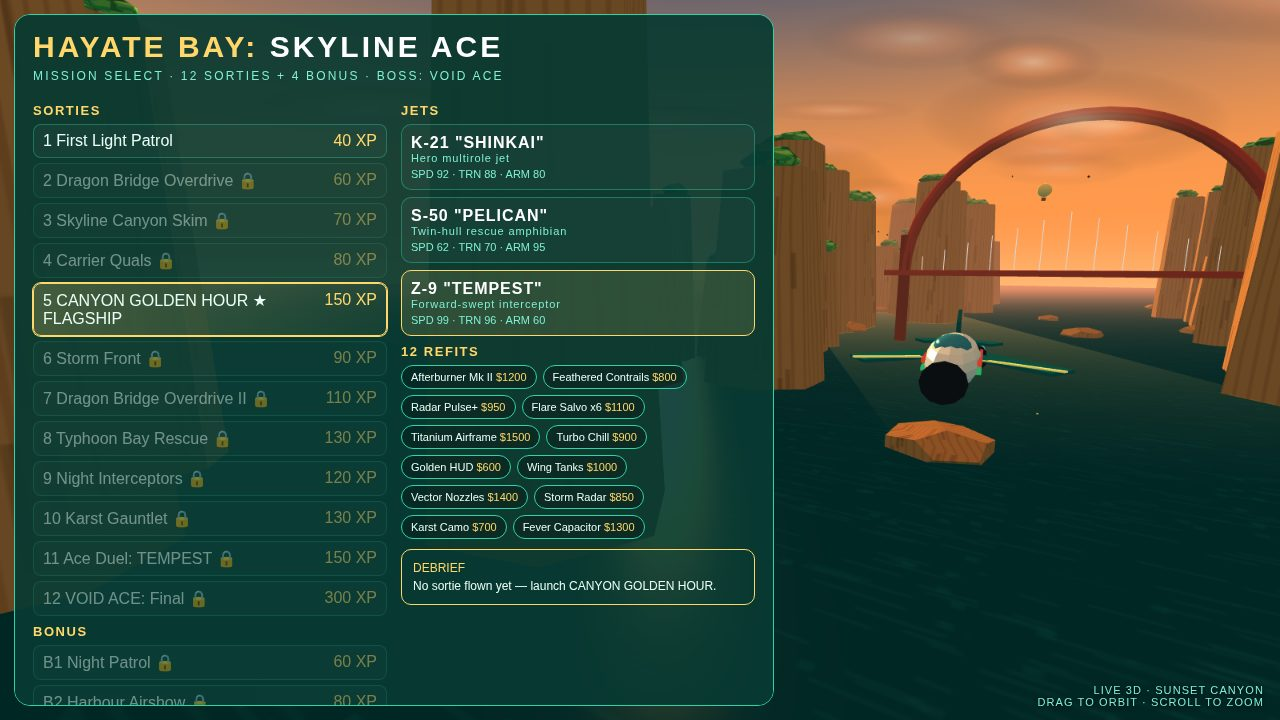
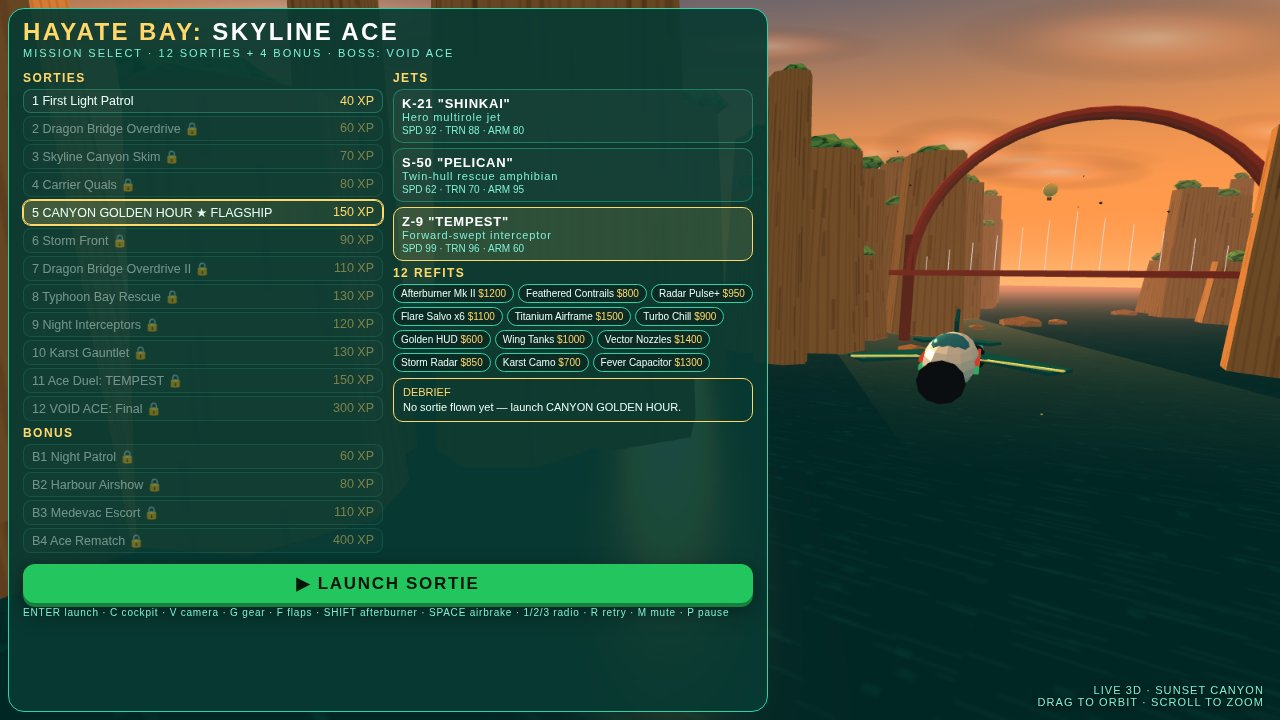
Fix menu overflow at 720p and carrier framing in cockpit shot
- Compact menu panel (tighter rows/pills/fonts): all 12 sorties,
  Bonus B1-B4, 12 refits, debrief and LAUNCH button now visible
  at 1280x720 (panel bottom 712px, LAUNCH bottom 603px)
- Carrier shot staging: start the ?shot=carrier approach from the
  clear centre corridor (100, 50, 880), yaw -0.6, so the deck and
  meatball are ahead in frame instead of a karst pillar; retaken
  screenshots 1-menu.jpg and 4-carrier.jpg (real renders, 1280x720)
- 2-play.jpg and 3-storm.jpg untouched

diff --git a/game/index.html b/game/index.html
@@ -21,29 +21,29 @@ button{font-family:inherit;cursor:pointer}
 #error{position:fixed;inset:auto 0 0 0;z-index:70;display:none;background:#7f1d1d;color:#fff;padding:10px 14px;font-size:13px}
 /* ---------- MENU ---------- */
 #menu{position:fixed;inset:0;z-index:20;display:flex;pointer-events:none}
-#menuPanel{pointer-events:auto;width:min(760px,94vw);max-height:100vh;overflow-y:auto;margin:14px;background:var(--teal2);border:1px solid var(--line);border-radius:16px;padding:16px 18px}
-#menuPanel h1{font-size:30px;color:var(--gold);letter-spacing:.1em;line-height:1.05}
+#menuPanel{pointer-events:auto;width:min(760px,94vw);max-height:calc(100vh - 16px);overflow-y:auto;margin:8px;background:var(--teal2);border:1px solid var(--line);border-radius:16px;padding:10px 14px}
+#menuPanel h1{font-size:24px;color:var(--gold);letter-spacing:.1em;line-height:1.05}
 #menuPanel h1 span{color:#fff}
-#menuSub{color:var(--mint);font-size:12px;letter-spacing:.18em;margin:6px 0 12px}
-.cols{display:flex;gap:14px;flex-wrap:wrap}
+#menuSub{color:var(--mint);font-size:11px;letter-spacing:.18em;margin:3px 0 7px}
+.cols{display:flex;gap:10px;flex-wrap:wrap}
 .col{flex:1;min-width:210px}
-.col h2{font-size:13px;color:var(--gold);margin:8px 0 6px}
-.row{display:flex;justify-content:space-between;gap:8px;padding:7px 9px;border:1px solid rgba(45,212,168,.35);border-radius:8px;margin-bottom:5px;cursor:pointer;background:rgba(255,255,255,.03)}
+.col h2{font-size:12px;color:var(--gold);margin:5px 0 4px}
+.row{display:flex;justify-content:space-between;gap:8px;padding:4px 8px;font-size:12.5px;border:1px solid rgba(45,212,168,.35);border-radius:8px;margin-bottom:3px;cursor:pointer;background:rgba(255,255,255,.03)}
 .row:hover{border-color:var(--gold)}
 .row.sel{border-color:var(--gold);background:rgba(255,215,106,.14);box-shadow:0 0 0 1px var(--gold)}
 .row.locked{opacity:.45;cursor:not-allowed}
 .row .xp{color:var(--gold);white-space:nowrap}
 .row.flag{border-color:var(--gold);background:linear-gradient(90deg,rgba(255,215,106,.22),rgba(255,215,106,.05))}
-.jetcard{border:1px solid rgba(45,212,168,.4);border-radius:10px;padding:9px;margin-bottom:7px;cursor:pointer;background:rgba(255,255,255,.03)}
+.jetcard{border:1px solid rgba(45,212,168,.4);border-radius:10px;padding:6px 8px;margin-bottom:5px;cursor:pointer;background:rgba(255,255,255,.03);font-size:13px}
 .jetcard.sel{border-color:var(--gold);background:rgba(255,215,106,.13)}
 .jetcard b{color:#fff;letter-spacing:.06em}
-.stats{font-size:11px;color:var(--mint);margin-top:4px}
-.pills{display:flex;flex-wrap:wrap;gap:6px}
-.pill{border:1px solid var(--line);border-radius:999px;padding:5px 9px;font-size:11px;background:rgba(0,0,0,.25);color:var(--ink);cursor:pointer}
+.stats{font-size:10px;color:var(--mint);margin-top:2px}
+.pills{display:flex;flex-wrap:wrap;gap:4px}
+.pill{border:1px solid var(--line);border-radius:999px;padding:3px 7px;font-size:10px;background:rgba(0,0,0,.25);color:var(--ink);cursor:pointer}
 .pill.on{background:var(--green);color:#04150a;border-color:var(--green);font-weight:700}
 .pill .pr{color:var(--gold)}
-#debrief{border:1px solid var(--gold);border-radius:10px;padding:9px 11px;margin-top:10px;font-size:12px;line-height:1.5}
-#launch{width:100%;margin-top:12px;padding:14px;font-size:19px;font-weight:800;letter-spacing:.1em;color:#04150a;background:var(--green);border:0;border-radius:12px;box-shadow:0 6px 0 #15803d,0 8px 22px rgba(0,0,0,.4)}
+#debrief{border:1px solid var(--gold);border-radius:10px;padding:6px 9px;margin-top:6px;font-size:11px;line-height:1.35}
+#launch{width:100%;margin-top:8px;padding:9px;font-size:17px;font-weight:800;letter-spacing:.1em;color:#04150a;background:var(--green);border:0;border-radius:12px;box-shadow:0 4px 0 #15803d,0 8px 22px rgba(0,0,0,.4)}
 #launch:hover{filter:brightness(1.12)}
 #launch:active{transform:translateY(3px);box-shadow:0 3px 0 #15803d}
 #menuHint{position:fixed;right:16px;bottom:12px;z-index:21;color:var(--mint);font-size:11px;letter-spacing:.1em;text-align:right;text-shadow:0 1px 4px #000}
@@ -135,7 +135,7 @@ button{font-family:inherit;cursor:pointer}
       <div class="col"><h2>Jets</h2><div id="jetList"></div><h2>12 Refits</h2><div class="pills" id="refitList"></div><div id="debrief"></div></div>
     </div>
     <button id="launch">▶ LAUNCH SORTIE</button>
-    <div class="small mint" style="margin-top:8px">ENTER launch · C cockpit · V camera · G gear · F flaps · SHIFT afterburner · SPACE airbrake · 1/2/3 radio · R retry · M mute · P pause</div>
+    <div class="small mint" style="margin-top:4px;font-size:10px">ENTER launch · C cockpit · V camera · G gear · F flaps · SHIFT afterburner · SPACE airbrake · 1/2/3 radio · R retry · M mute · P pause</div>
   </div>
 </div>
 <div id="menuHint">LIVE 3D · SUNSET CANYON<br>DRAG TO ORBIT · SCROLL TO ZOOM</div>

diff --git a/game/src/main.js b/game/src/main.js
@@ -728,7 +728,7 @@ function setupShot(shot) {
   setTimeout(() => {
     if (shot === 'menu') { /* menu is default */ }
     else if (shot === 'storm') { selectSortie(6); launch(true); S.pos.set(-20, 90, -100); S.speed = 240; }
-    else if (shot === 'carrier') { selectSortie(4); launch(true); S.pos.set(180, 70, 850); S.yaw = 0; S.speed = 160; S.gear = true; syncGear(); setCockpit(true); }
+    else if (shot === 'carrier') { selectSortie(4); launch(true); S.pos.set(100, 50, 880); S.yaw = -0.6; S.speed = 160; S.gear = true; syncGear(); setCockpit(true); }
     else { selectSortie(5); launch(true); S.pos.set(10, 85, -40); S.speed = 250; S.fever = 82; }
     window.__kazebay.ready = true;
   }, 800);
